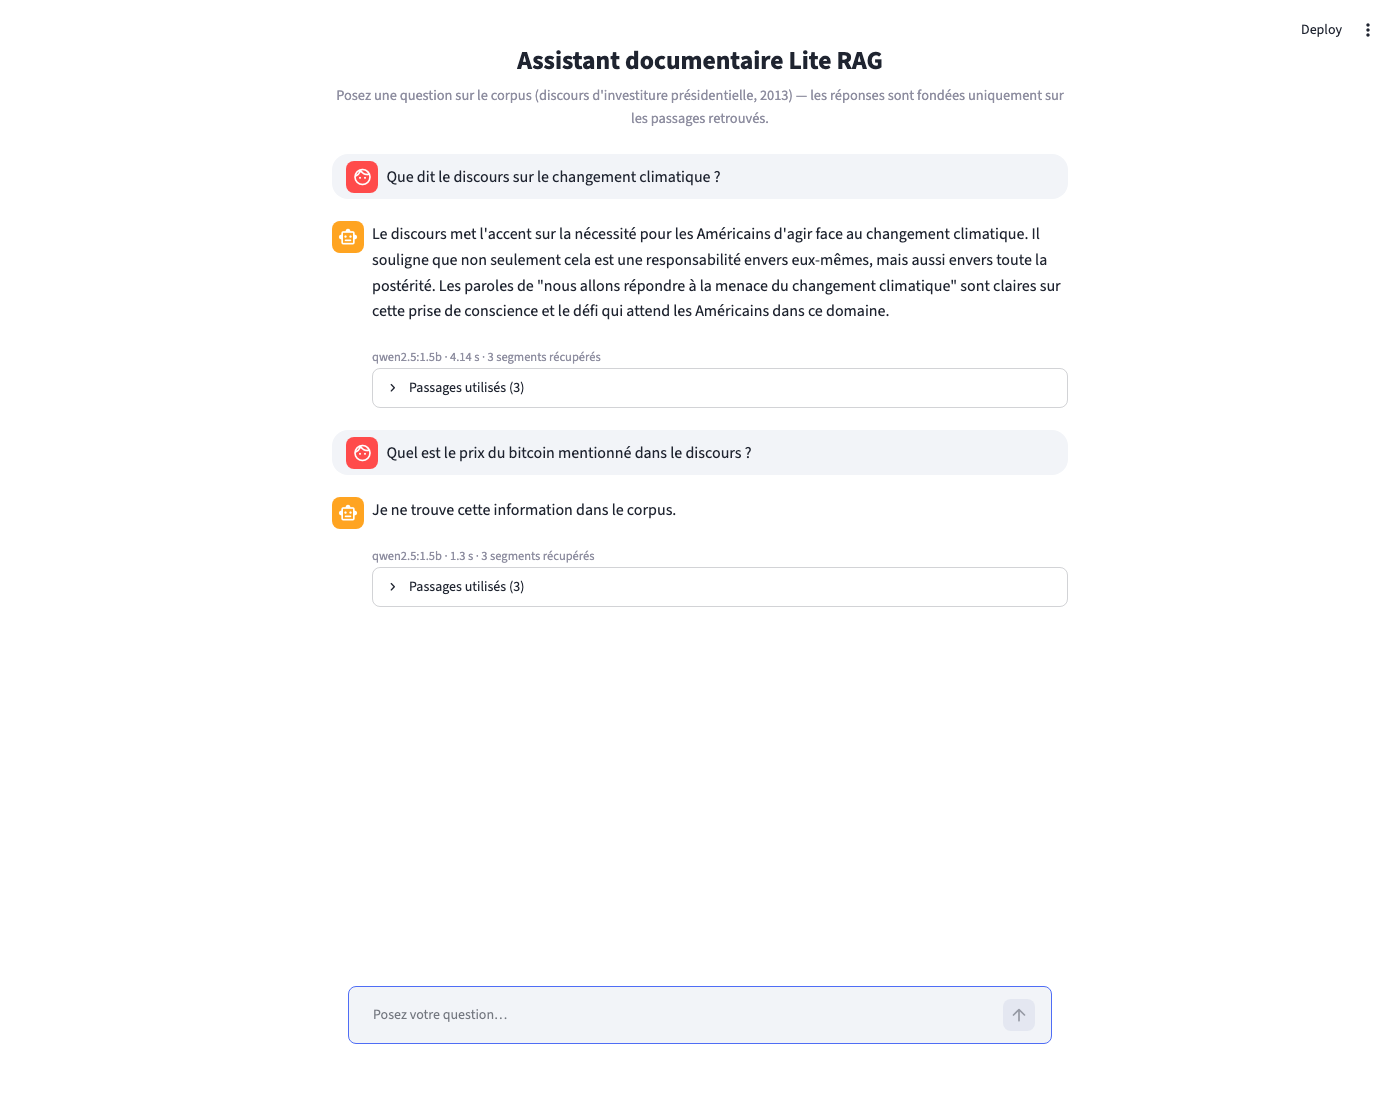
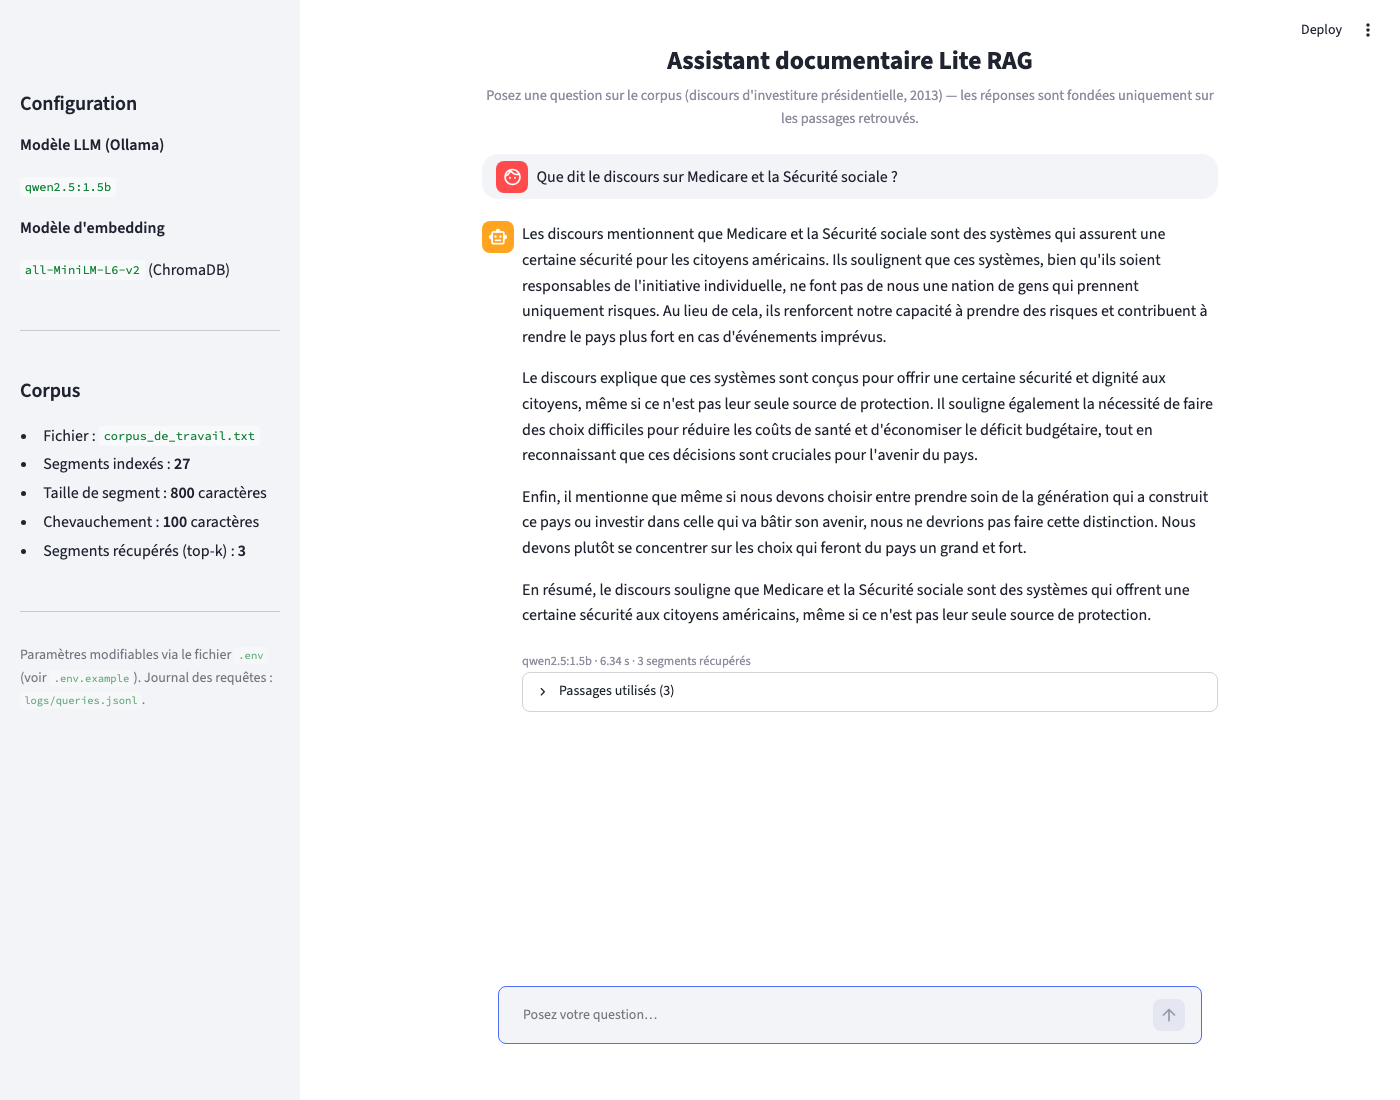
Add configuration sidebar with model and corpus info

diff --git a/app.py b/app.py
@@ -18,7 +18,7 @@ from rag.pipeline import RagPipeline
 
 st.set_page_config(
     page_title="Assistant documentaire Lite RAG",
-    initial_sidebar_state="collapsed",
+    initial_sidebar_state="expanded",
 )
 
 st.markdown(
@@ -86,6 +86,29 @@ try:
 except Exception as exc:  # corpus manquant, etc.
     pipeline_ready = False
     st.error(f"Impossible d'initialiser le pipeline : {exc}")
+
+with st.sidebar:
+    st.markdown("## Configuration")
+    st.markdown(
+        f"**Modèle LLM (Ollama)**\n\n`{config.OLLAMA_MODEL}`\n\n"
+        f"**Modèle d'embedding**\n\n`all-MiniLM-L6-v2` (ChromaDB)"
+    )
+    st.divider()
+    st.markdown("## Corpus")
+    if pipeline_ready:
+        st.markdown(
+            f"- Fichier : `{pipeline.corpus_path}`\n"
+            f"- Segments indexés : **{pipeline.n_chunks}**\n"
+            f"- Taille de segment : **{pipeline.chunk_size}** caractères\n"
+            f"- Chevauchement : **{pipeline.chunk_overlap}** caractères\n"
+            f"- Segments récupérés (top-k) : **{config.TOP_K}**"
+        )
+    st.divider()
+    st.caption(
+        "Paramètres modifiables via le fichier `.env` "
+        "(voir `.env.example`). Journal des requêtes : "
+        f"`{config.LOG_FILE}`."
+    )
 
 st.markdown('<div class="app-title">Assistant documentaire Lite RAG</div>', unsafe_allow_html=True)
 st.markdown(